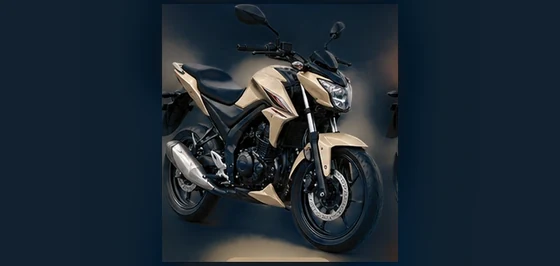
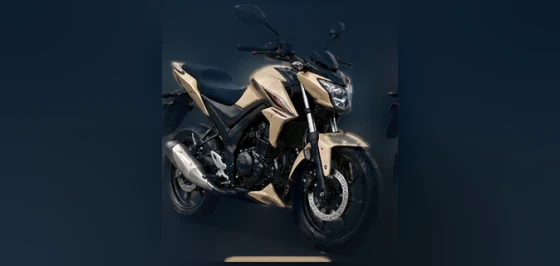
fix(ciudadano): la moto deja de verse dentro de un rectángulo en su casilla
Defecto reportado sobre lo publicado en staging: «la moto aparece pequeña, con
un fondo rectangular vertical dentro del marco horizontal».

MEDIDO SOBRE EL ARCHIVO QUE SIRVE STAGING
-----------------------------------------
No era ni el tamaño del activo ni el encuadre CSS: los nueve `moto-*.webp`
publicados son 560x266, igual que los cien automóviles, y la casilla aplica el
mismo `aspect-ratio: 2/1` con `object-fit: contain` para todos.

El defecto está dentro del propio WebP. En las 18 filas de arriba —donde no hay
moto— el relleno está en (18,33,48) y el fondo de la fotografía baja hasta
(10.6,28.1,43.6): siete niveles de diferencia en rojo, en un bloque de 224 px de
ancho que va de arriba abajo. Ese bloque es el rectángulo.

LA CAUSA
--------
El procesado restaba el fondo con una opacidad que salía SÓLO del apartamiento
de cada píxel contra el campo estimado. En el plató ese apartamiento no es cero
—tiene grano y viñeta—, así que a los píxeles de fondo se les aplicaba nada más
que parte de la corrección y quedaban a medio camino entre el plató y el fondo
de la biblioteca.

LA CORRECCIÓN
-------------
  - La opacidad se multiplica por la máscara binaria del sujeto: fuera de la
    moto es CERO y la corrección entra entera.
  - La fotografía se funde en el lienzo con una caída elíptica en vez de pegarse
    con cantos. Aunque el tono quede bien, un borde sigue siendo un borde, y el
    plató tiene luz propia detrás de la moto que ninguna resta aplana: no es un
[…]

diff --git a/frontend/apps/citizen/src/vehicleImages/prototipo/LEEME.md b/frontend/apps/citizen/src/vehicleImages/prototipo/LEEME.md
@@ -52,20 +52,43 @@ Lo que se hizo en cambio fue **restar el fondo**, no separarlo:
    cosas son suaves.
 2. **Calcular una opacidad continua** por píxel según cuánto se aparta del campo. El plató se
    aparta poco; la moto, mucho.
-3. **Restar el campo sólo donde la opacidad es baja**: `salida = original − (1−α)·(campo − fondo
-   de la biblioteca)`. En el plató queda el azul de la biblioteca plano; en la moto no se toca ni
-   un píxel.
-4. **Rellenar a la proporción 560:266** con ese mismo azul y reescalar. Sin el relleno,
-   `object-fit: contain` dejaba la imagen al 75% del ancho con dos bandas del marco a los lados.
+3. **Restar el campo donde esa opacidad es CERO**, que es todo lo que la inundación marcó como
+   fondo: `salida = original − campo + fondo de la biblioteca`. Dentro de la moto la opacidad sigue
+   siendo continua y no se toca ni un píxel.
+4. **Fundir la fotografía en el lienzo** con una caída elíptica, en vez de pegarla con cantos.
+5. **Rellenar a la proporción 560:266** con la **viñeta real** de los automóviles —medida tapando
+   un coche y extendiendo lo que queda— y reescalar.
 
-La moto ocupa entre el 89% y el 96% del alto de la casilla, igual que los automóviles. A lo ancho
-ocupa un 40% y no un 90%, y es correcto: está fotografiada de tres cuartos frontal y es estrecha.
-Lo que iguala el tamaño percibido en una lista es el alto, no el ancho.
+### La corrección del 22-10-2026 por la tarde, y qué estaba mal
 
-**Lo que queda sin resolver:** un halo tenue pegado al contorno de la moto, donde el campo no puede
-distinguir el reflejo del plató del reflejo en la moto. Se deja ahí a propósito. Lo que lo
-arreglaría de verdad es que los activos vinieran **con fondo transparente**; mientras no sea así,
-esto es lo máximo que se puede hacer sin inventar un contorno.
+La primera versión de esto llegó a staging con un defecto que se vio en cuanto estuvo publicado:
+**un rectángulo vertical más oscuro alrededor de la moto**. La causa, medida sobre el archivo que
+servía staging, en las 18 filas de arriba —donde no hay moto—: el relleno estaba en `(18,33,48)` y
+el fondo de la fotografía bajaba hasta `(10.6,28.1,43.6)`. Siete niveles de diferencia en rojo, en
+un bloque de 224 px de ancho y de arriba abajo.
+
+El error era del **paso 3**: la opacidad salía sólo del apartamiento contra el campo, y en el plató
+ese apartamiento no es cero —tiene grano y viñeta—, así que a los píxeles de fondo se les aplicaba
+nada más que PARTE de la corrección y quedaban a medio camino. Ahora la opacidad se multiplica por
+la máscara binaria del sujeto: fuera de la moto es cero y la corrección entra entera.
+
+Los pasos 4 y 5 son nuevos por lo mismo: aunque el tono quede bien, el borde de la fotografía
+sigue siendo un borde, y el plató tiene luz propia detrás de la moto que ninguna resta aplana
+—no es un campo suave, es la iluminación de un estudio—. Fundiéndola, no hay borde que delatar.
+
+Medido antes y después, comparando el perfil horizontal del fondo contra el de un automóvil de la
+misma biblioteca: la correlación pasa de **−0,73** (invertida: oscuro donde el coche es claro, que
+es el rectángulo) a **+0,92 … +0,95**, con un rango de 10,7–15,0 niveles contra los 14,4–14,5 de
+los coches.
+
+### Lo que sigue sin resolverse
+
+La moto ocupa entre el 88% y el 96% del **alto** de la casilla, igual que los automóviles. A lo
+**ancho** ocupa un 40% y no un 90%: está fotografiada de tres cuartos frontal y es estrecha. Eso no
+es un defecto del procesado y no tiene arreglo por software — con ese encuadre, llenar el ancho
+exigiría recortarle las ruedas o los espejos. Se arregla con **otra fotografía**: de perfil, o
+—mejor— **con fondo transparente**, que además eliminaría el halo tenue que queda pegado al
+contorno. Es la petición concreta para el paquete definitivo.
 
 **El color de la moto no se tocó.** Y conviene decirlo: su `rojo` sale a 359° de tono y su `verde`
 a 111°, es decir, rojo y verde de verdad, mientras que los automóviles de la biblioteca tienen el
